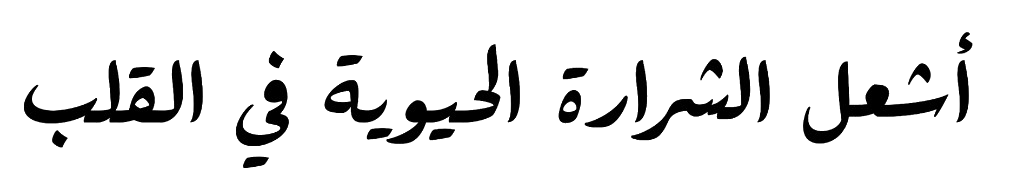
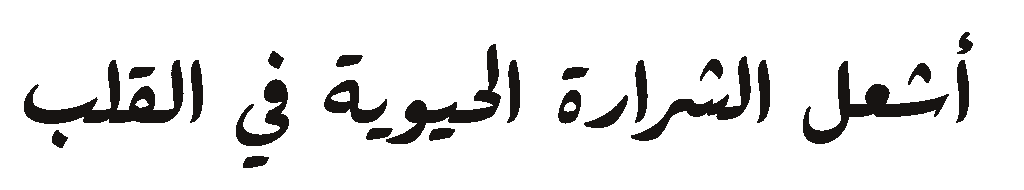
Fix hero Arabic tagline image rendering for production deploy.
Regenerate the transparent PNG with correct black calligraphy and slightly increase scale so it matches the English and French headline proportions.

diff --git a/src/styles/global.css b/src/styles/global.css
@@ -284,7 +284,7 @@ blockquote {
 .hero-arabic-tagline {
   display: block;
   margin: 0 auto;
-  height: clamp(26px, 3.05vw, 40px);
+  height: clamp(30px, 3.45vw, 46px);
   width: auto;
   max-width: min(680px, 92vw);
   object-fit: contain;
@@ -1805,7 +1805,7 @@ textarea:focus-visible {
   }
 
   .hero-arabic-tagline {
-    height: clamp(20px, 4.9vw, 28px);
+    height: clamp(24px, 5.2vw, 32px);
   }
 
   .pillar-grid,